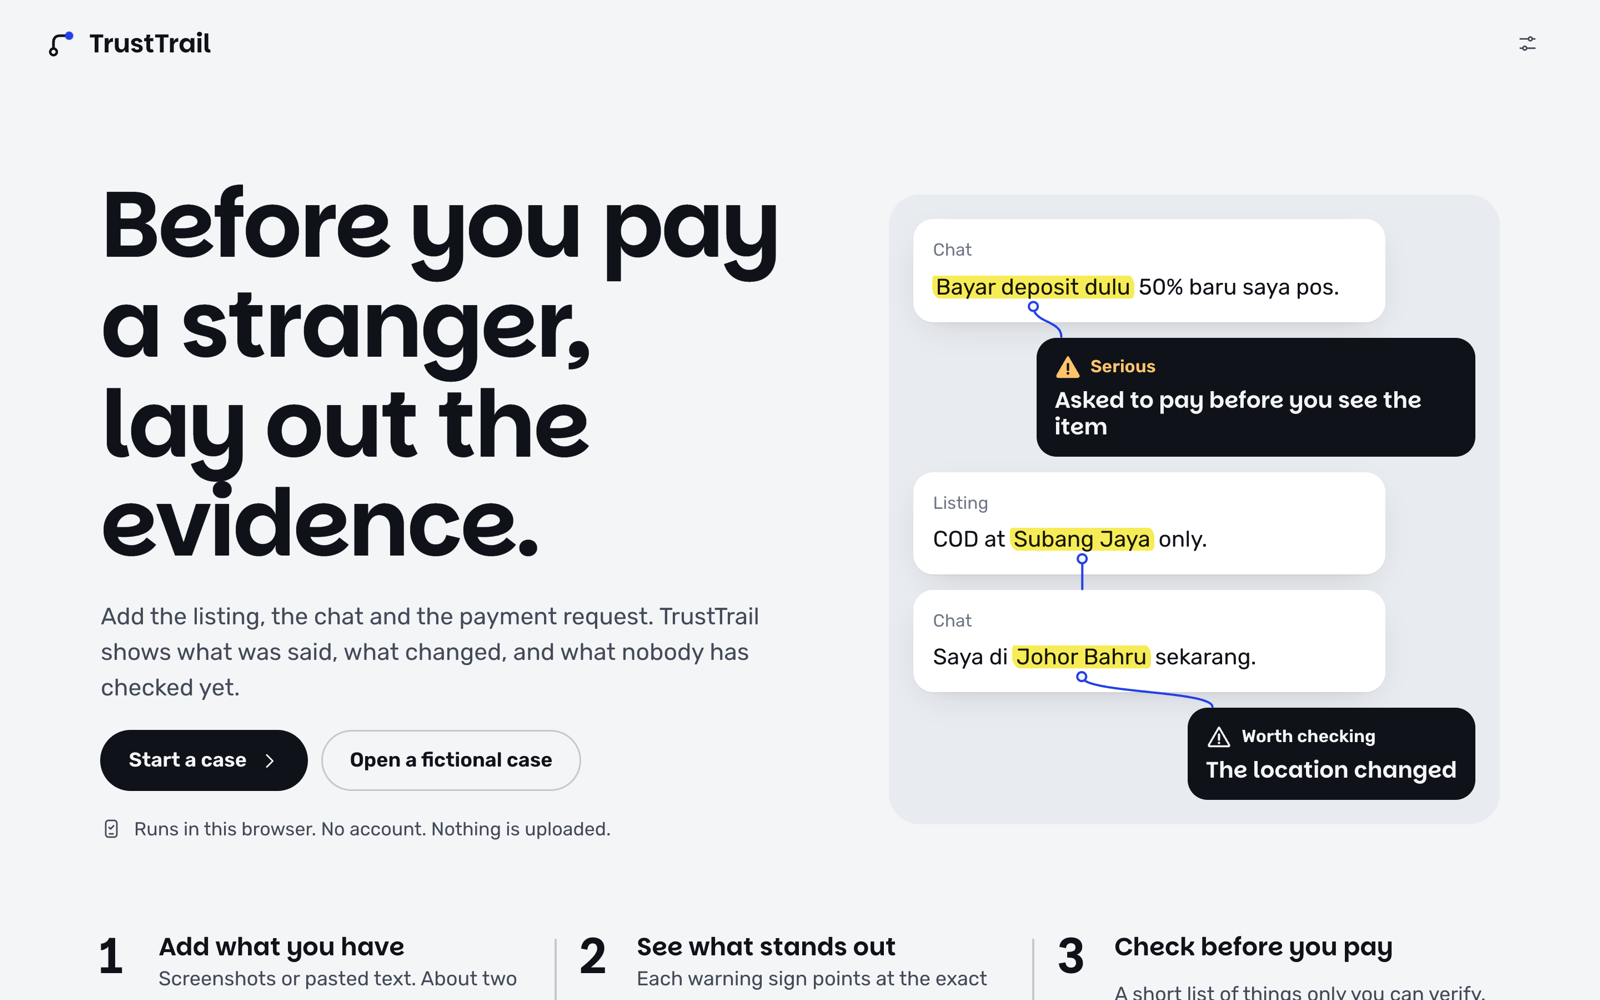
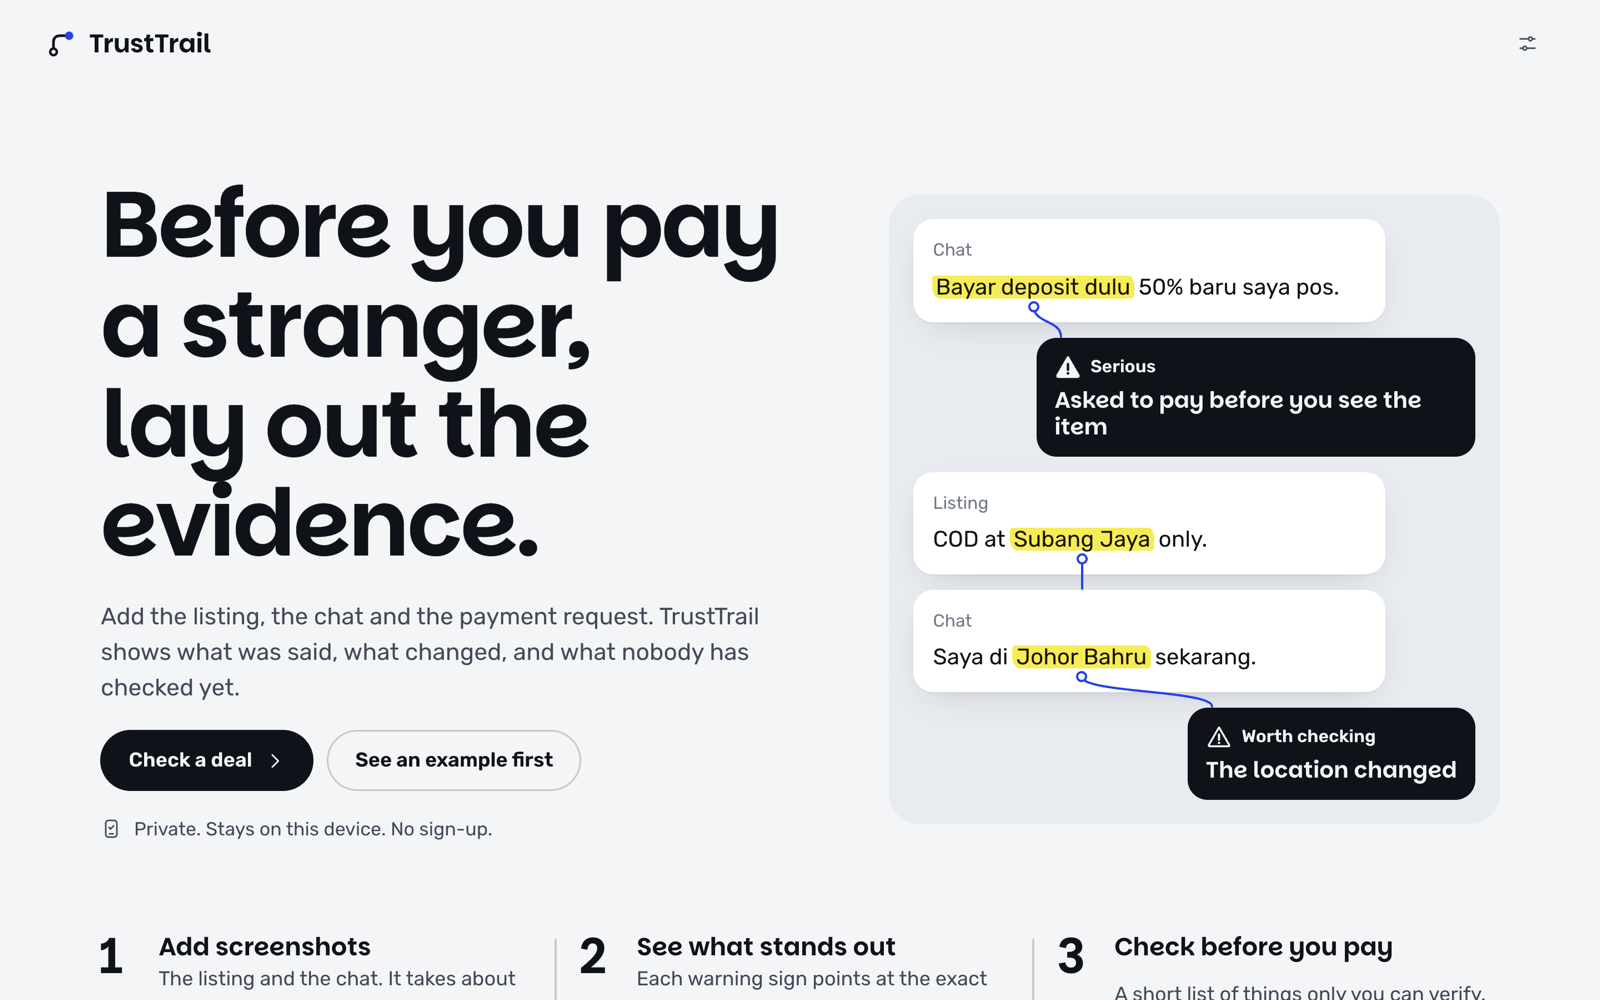
Refresh screenshots and report from the live site

diff --git a/README.md b/README.md
@@ -4,7 +4,7 @@
 
 **Lay out the evidence before you pay a stranger online.**
 
-Try it: **https://trusttrail-yeegz.web.app** (open "a fictional case" to see everything without adding anything real)
+Try it: **https://trusttrail-yeegz.web.app** (press "See an example first" to explore without adding anything real)
 
 You found a secondhand phone. The seller wants a deposit, asks to move to WhatsApp, and the bank account is in someone else's name. Each thing alone might be fine. TrustTrail puts the listing, the chat and the payment request side by side and shows:
 
@@ -66,7 +66,7 @@ Built to be usable by anyone: large touch targets, plain words, numbers first, d
 | Injected instructions that changed a result | 0 of 130 |
 | Disguised links flagged / real hosts wrongly flagged | 17 of 17 / 0 of 15 |
 | Requests to other servers in a full session | 0 |
-| New case with a screenshot, click to result | 4.5 s |
+| New check with a screenshot, click to result | about 5 s |
 
 Stack: TypeScript, React, Vite, IndexedDB, Tesseract compiled to WebAssembly (self-hosted), strict Content-Security-Policy. No backend.
 

diff --git a/docs/REPORT.md b/docs/REPORT.md
@@ -24,7 +24,7 @@ All of this was run on 11 Nov 2026 against the live site with real headless Chro
 |-------|--------|
 | Automated tests | 1,393 passing across 10 files (`npm test`) |
 | Type check + production build | Clean (`npm run build`) |
-| Fresh case with a real image through OCR | Result shown 4.5 s after pressing "Read and analyse" (includes first download of the OCR engine) |
+| Fresh case with a real image through OCR | Result shown about 5 s after pressing "Check this deal" (includes first download of the OCR engine) |
 | Requests to any other server during a full session | 0 |
 | Console or page errors, 4 device profiles | 0 |
 | Sideways scrolling at 390, 820, 1440 wide (and 320 by hand) | None |
